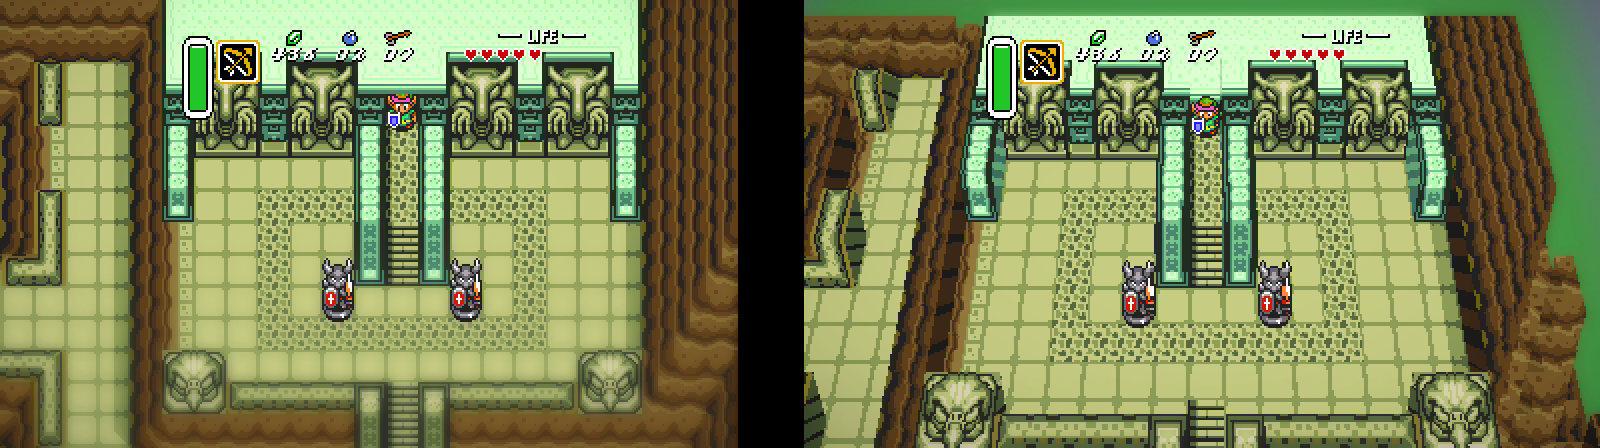
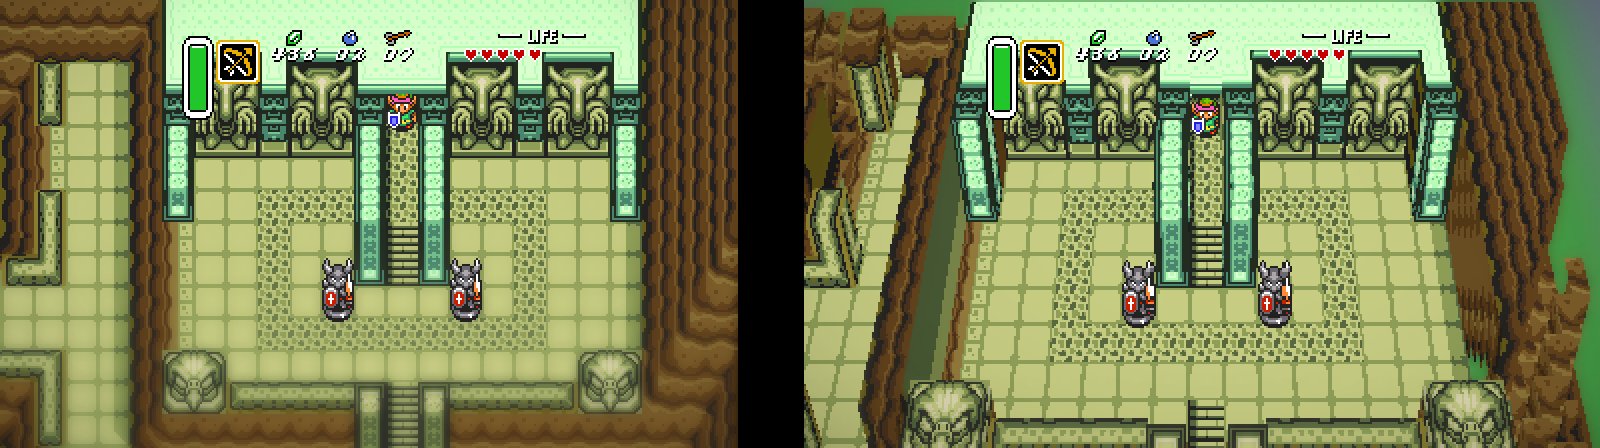
Docs: 3D screenshots with terraces, trees and the first-person sword
- New 3d-outdoors.png: the camera turned at Link's house on its raised
  yard (the ground steps down at its ledges) and at a Kakariko house with
  its fence, hedges and trees.
- 3d-first-person.png: the Sanctuary a few steps in from the door (in the
  doorway its now tall sides fill the view), swinging the sword.
- The other 3D screenshots made again with the new geometry.
- readme_3d.txt resets the camera before the outdoor shots, so a walk is
  not turned by the first-person camera of the shot before.

Claude-Session: https://claude.ai/code/session_01KrREN423JtkdBDBTRQRweK

Changed region(s): [[0.5, 0.0, 1.0, 1.0]]

diff --git a/README.md b/README.md
@@ -423,9 +423,13 @@ it; switch to first person and you walk through it at Link's eye height.
 
 *The camera turned (left). Split screen: a player in first person gets a pane of their own (right).*
 
-<p align="center"><img src="docs/screenshots/3d-first-person.png" width="100%" alt="First person: on the left the Sanctuary's red carpet between brick walls, on the right the castle courtyard with a soldier standing close by as a flat card"></p>
+<p align="center"><img src="docs/screenshots/3d-outdoors.png" width="100%" alt="Outdoors with the camera turned: on the left Link's house on its raised yard, the ground stepping down at its ledges; on the right a Kakariko house with its fence, hedges and tall trees"></p>
 
-*First person in the Sanctuary (left) and in the castle courtyard (right).*
+*Outdoors: Link's house on its raised yard, with the ground stepping down at its ledges (left), and a Kakariko house with its fence, hedges and trees (right).*
+
+<p align="center"><img src="docs/screenshots/3d-first-person.png" width="100%" alt="First person: on the left the Sanctuary's red carpet between tall walls with stained glass, the sword swinging in front of the view; on the right the castle courtyard with a soldier standing close by as a flat card"></p>
+
+*First person in the Sanctuary, swinging the sword (left), and in the castle courtyard (right).*
 
 **Turning it on.** *Pause menu > Video and HD options > 3D view (beta)*, or
 `Hd3d = 1` in the `[Graphics]` section of `zelda3.ini`. It is off by
